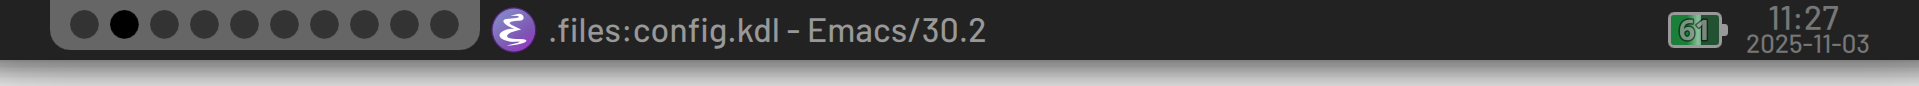
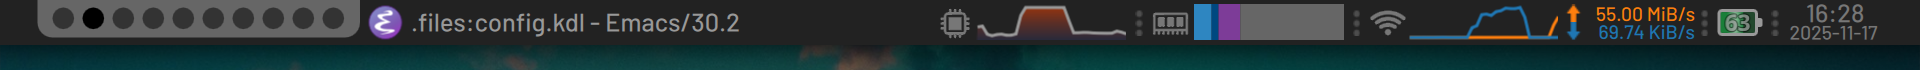
docs(fancy-bar): update README

diff --git a/fancy-bar/README.md b/fancy-bar/README.md
@@ -7,21 +7,39 @@ A more advanced variant of the [Simple bar](../simple-bar).
 > [!WARNING]
 > This configuration is a work in progress, and might change at any point.
 
+### Demo
+
+<video src="https://gist.github.com/imiric/c96f7d182e5c59cff05619d14f4049bd/raw/085ce1375187c025e3c50541974026c881bcc17d/20251117_165232-643b392.mp4" width="796" height="574"></video>
+
 ### Features
 
-- Configurable via a [JSON file](./config.json). See
-  [`Config.qml`](./modules/common/Config.qml) for possible configuration options.
-- Battery widget with percentage and animated charging indicator, supporting vertical and
-  horizontal orientations.
-- Focused window title and icon.
-- Stacked time and date widget.
+- Multiple widgets:
+  - Workspace indicator.
+  - Focused window title with icon.
+  - CPU: total usage line graph, with load average, individual core usage, and top processes in popup.
+  - RAM: total usage segmented bar graph, with breakdown per usage type, and top processes in popup.
+  - Network: up/down data rates in line graph and numerical form, with interface and network information in popup (SSID, signal strength, link speed, LAN and WAN IPs). Dynamic network type icon, showing WiFi signal strength. Supports switching interfaces via a right-click context menu.
+  - Battery: icon with percentage and animated charging indicator, and charge/discharge rate and remaining time in popup. Supports vertical and horizontal orientations.
+  - Stacked time and date.
 - Supports top and bottom positioning.
 - Relative scaling of most elements.
-- A soft shadow underneath the bar.
+- Configurable via a [JSON file](./config.json). See [`Config.qml`](./modules/common/Config.qml) for possible configuration options.
 
 
 ### Dependencies
 
+- CPU/RAM widgets:
+  - `procps` package (`ps`, `uptime`)
+  - `coreutils` package (`head`)
+  - Read access to the `/proc` filesystem.
+
+- Network widget: 
+  - `findutils` package (`find`)
+  - `iproute2` package (`ip`)
+  - `iw` package (`iw`)
+  - `bind-utils` package (`dig`)
+  - Read access to the `/sys` filesystem.
+  
 - Battery widget: [UPower](https://upower.freedesktop.org/)
 
 - Fonts: [Noto Sans](https://notofonts.github.io/)
